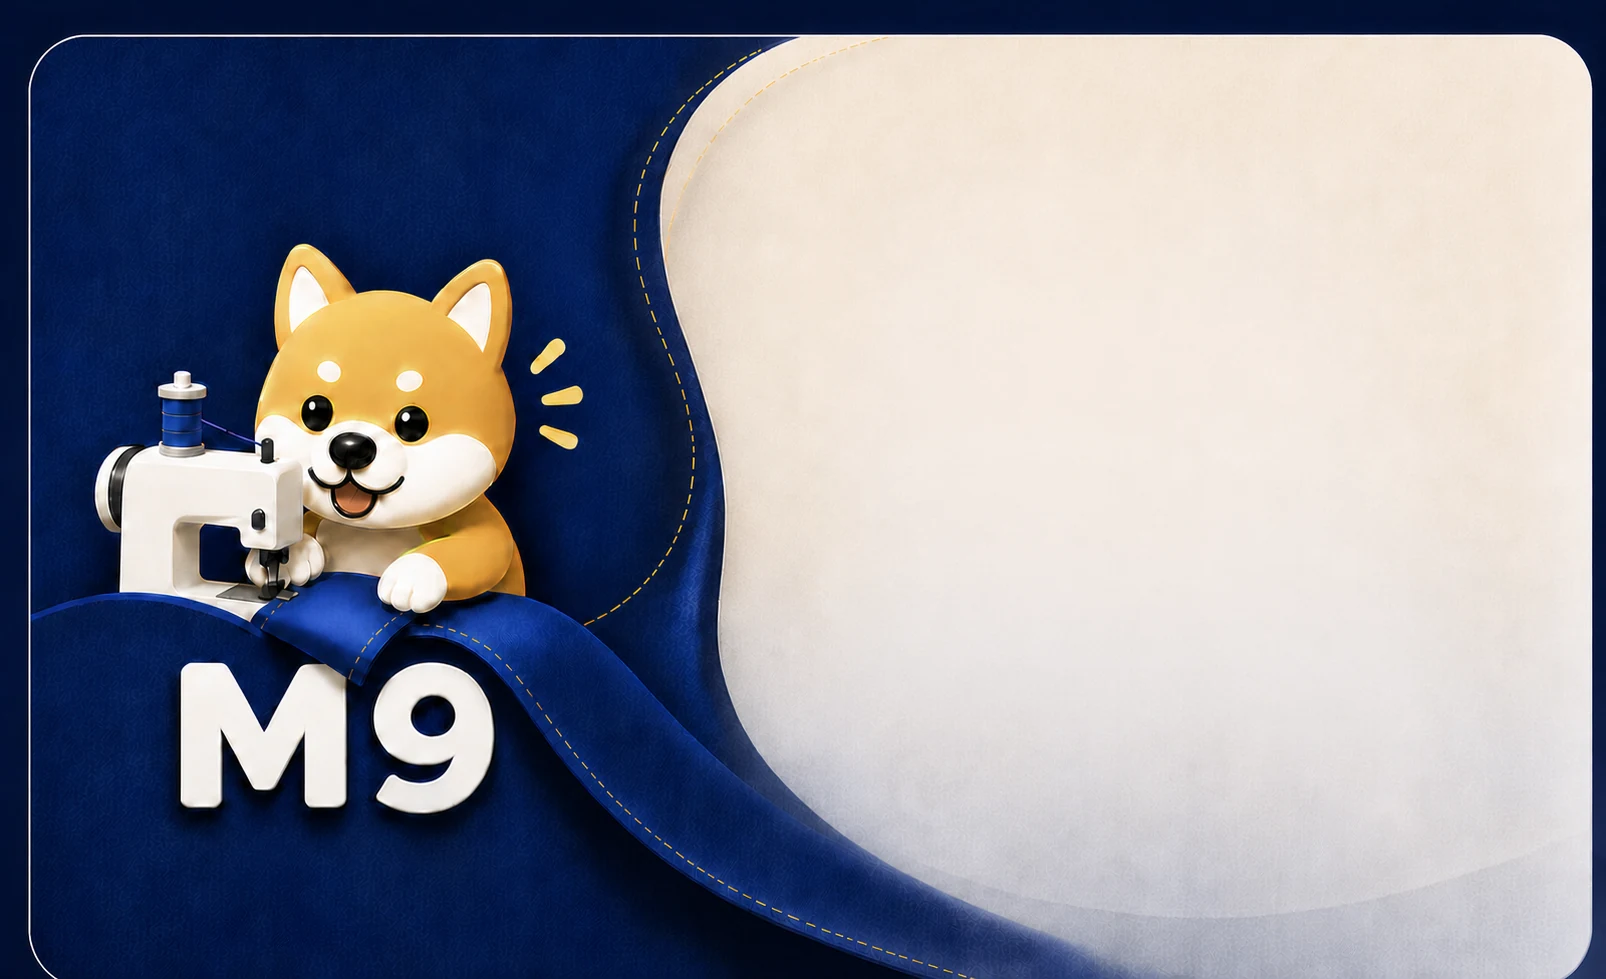
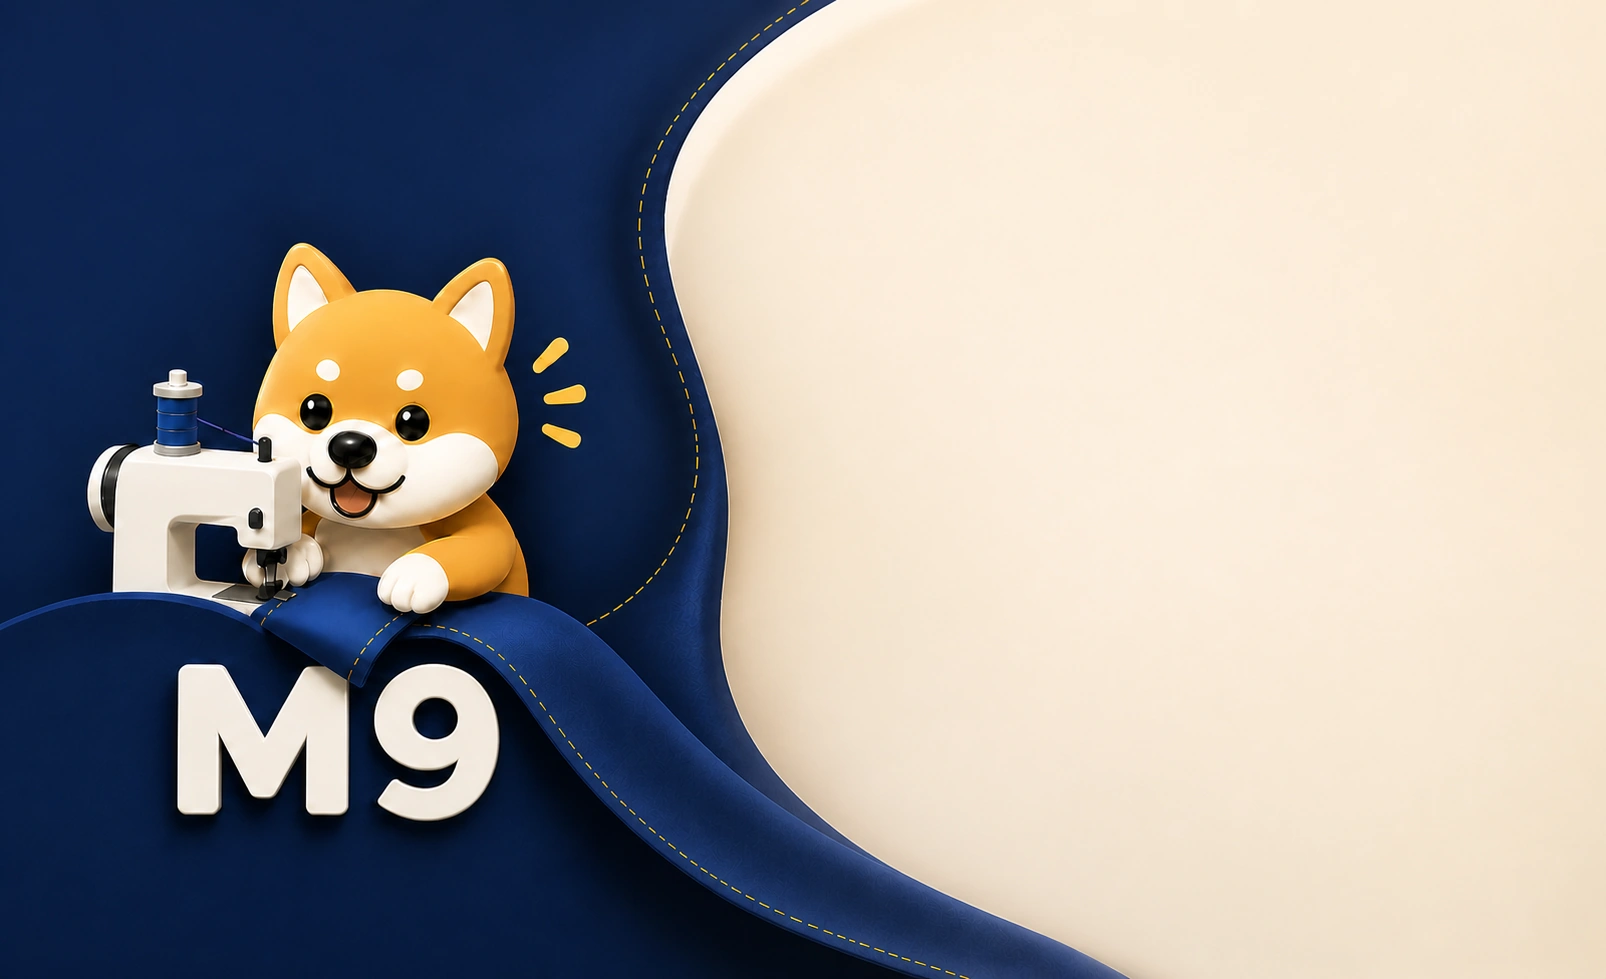
優化登入背景與按鈕比例

diff --git a/index.html b/index.html
@@ -177,7 +177,7 @@ tr:hover td{background:#f8fafc}
 .lw::before,.lw::after{content:'';position:absolute;border:1px solid rgba(255,255,255,.12);border-radius:999px;pointer-events:none}
 .lw::before{width:420px;height:420px;left:-180px;bottom:-240px}
 .lw::after{width:280px;height:280px;right:-100px;top:-150px}
-.login-shell{position:relative;z-index:1;width:min(760px,100%);aspect-ratio:1606/979;display:grid;grid-template-columns:42% 58%;overflow:hidden;border:1px solid rgba(255,255,255,.35);border-radius:24px;background:#0a2459 url('login-background.webp') center/cover no-repeat;box-shadow:0 28px 70px rgba(1,15,40,.42)}
+.login-shell{position:relative;z-index:1;width:min(760px,100%);aspect-ratio:1606/979;display:grid;grid-template-columns:42% 58%;overflow:hidden;border-radius:24px;background:#0a2459 url('login-background.webp') center/cover no-repeat;box-shadow:0 24px 58px rgba(1,15,40,.36)}
 .login-visual{min-width:0}
 .lc{display:flex;min-width:0;flex-direction:column;align-items:center;justify-content:center;padding:40px 38px 38px;background:transparent}
 .lt{display:flex;flex-direction:column;align-items:center;margin-bottom:20px;color:#09275f;line-height:1.16;text-align:center}
@@ -185,17 +185,17 @@ tr:hover td{background:#f8fafc}
 .login-title-zh{margin-top:7px;color:#4c6281;font-size:16px;font-weight:500}
 .login-support{display:flex;flex-direction:column;align-items:center;gap:3px;margin-bottom:23px;color:#4c6281;font-size:11px;font-weight:500;line-height:1.4;text-align:center}
 .login-support span{display:block}
-#google-login-btn{width:min(360px,100%);min-height:64px;height:auto;justify-content:center;gap:12px;padding:9px 16px;border:1px solid #e4ae35;border-radius:13px;background:linear-gradient(135deg,#1f5ec0 0%,#102f72 100%);box-shadow:0 11px 24px rgba(8,35,90,.26);color:#fff;font-size:13px;font-weight:600;line-height:1.3;white-space:normal;text-align:left}
+#google-login-btn{width:min(300px,100%);min-height:58px;height:auto;justify-content:center;gap:10px;padding:8px 14px;border:1px solid #e4ae35;border-radius:13px;background:linear-gradient(135deg,#1f5ec0 0%,#102f72 100%);box-shadow:0 9px 20px rgba(8,35,90,.24);color:#fff;font-size:13px;font-weight:600;line-height:1.3;white-space:normal;text-align:left}
 #google-login-btn:hover{background:linear-gradient(135deg,#1b55ad 0%,#0c285f 100%);box-shadow:0 15px 32px rgba(8,35,90,.34);transform:translateY(-1px)}
 #google-login-btn:disabled{cursor:wait;opacity:.72;box-shadow:none;transform:none}
-#google-login-btn>i,.google-login-logo{width:38px;height:38px;display:flex;align-items:center;justify-content:center;flex:0 0 38px;border-radius:9px}
+#google-login-btn>i,.google-login-logo{width:36px;height:36px;display:flex;align-items:center;justify-content:center;flex:0 0 36px;border-radius:9px}
 #google-login-btn>i{background:rgba(255,255,255,.12);font-size:17px}
 .google-login-logo{background:#fff;border:1px solid rgba(116,119,117,.45)}
 .google-login-logo img{display:block;width:22px;height:22px}
 .login-btn-copy{display:flex;min-width:0;flex-direction:column;align-items:flex-start;gap:2px}
 .login-btn-copy span{display:block}
 .login-btn-zh{font-size:11px;font-weight:500;opacity:.92}
-#lerr{width:min(360px,100%);margin:0 0 14px!important;border-radius:11px;padding:12px 13px;line-height:1.5}
+#lerr{width:min(300px,100%);margin:0 0 14px!important;border-radius:11px;padding:12px 13px;line-height:1.5}
 @media(max-width:760px){.lw{align-items:flex-start;padding:18px;overflow-y:auto}.login-shell{display:flex;align-items:flex-end;width:min(420px,100%);min-height:520px;aspect-ratio:auto;margin:auto;border-radius:21px;background-size:auto 100%;background-position:28% center}.login-visual{display:none}.lc{width:calc(100% - 32px);margin:0 16px 16px;padding:25px 20px 23px;border:1px solid rgba(255,255,255,.72);border-radius:18px;background:rgba(255,252,246,.93);box-shadow:0 16px 34px rgba(2,19,53,.3);backdrop-filter:blur(8px)}.login-title-vi{font-size:24px}.login-title-zh{font-size:14px}.login-support{font-size:10px;margin-bottom:20px}}
 @media(max-width:420px){.lw{padding:12px}.login-shell{min-height:500px;border-radius:18px}.lc{width:calc(100% - 24px);margin:0 12px 12px;padding:23px 16px 21px;border-radius:16px}.login-title-vi{font-size:22px}#google-login-btn{font-size:11px}}
 .lf{display:flex;flex-direction:column;gap:4px;margin-bottom:13px}
